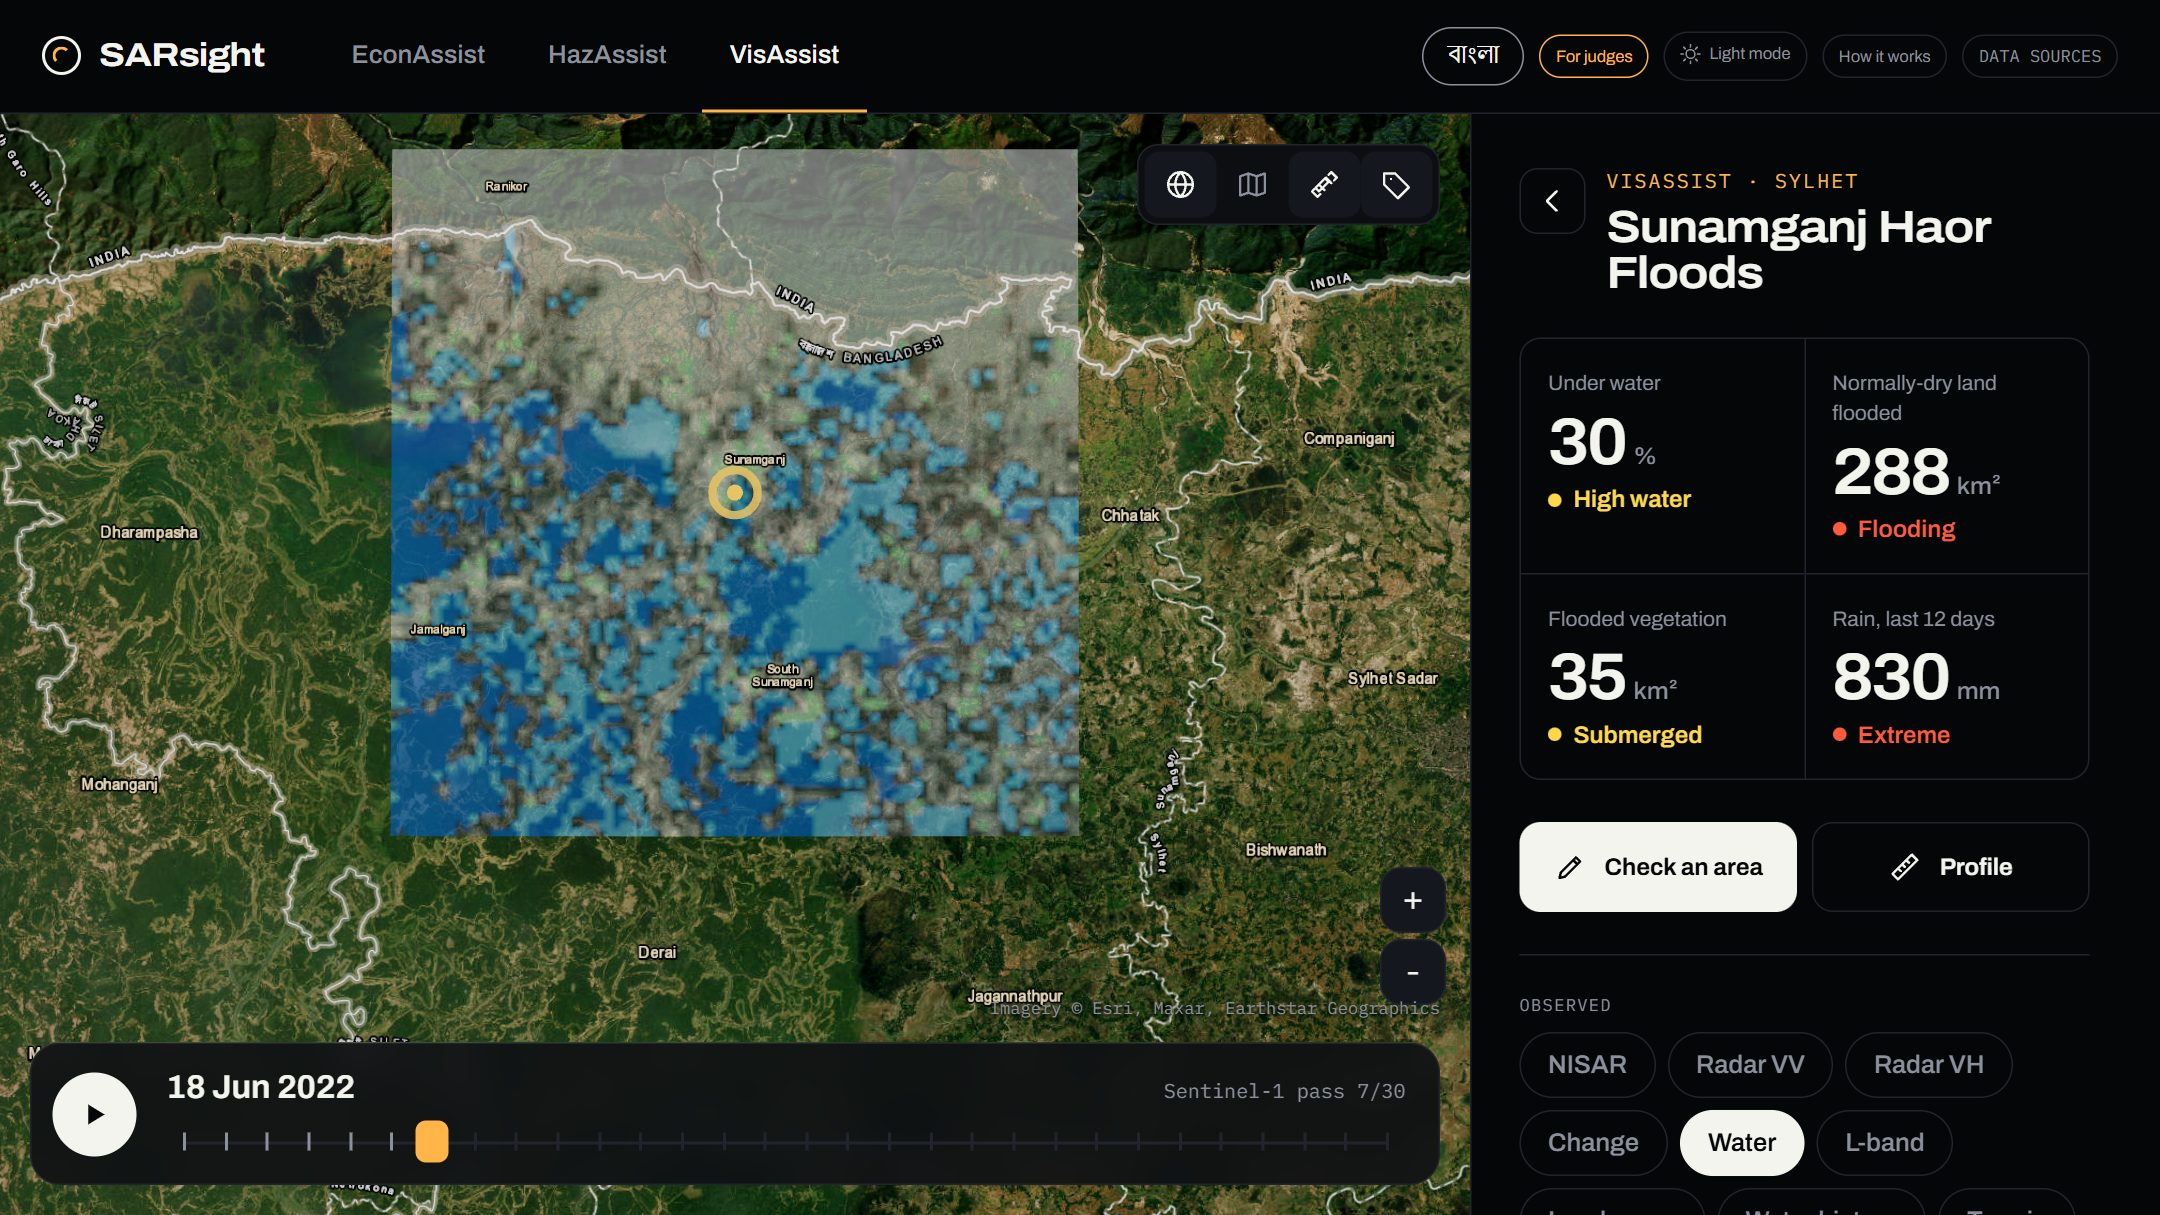
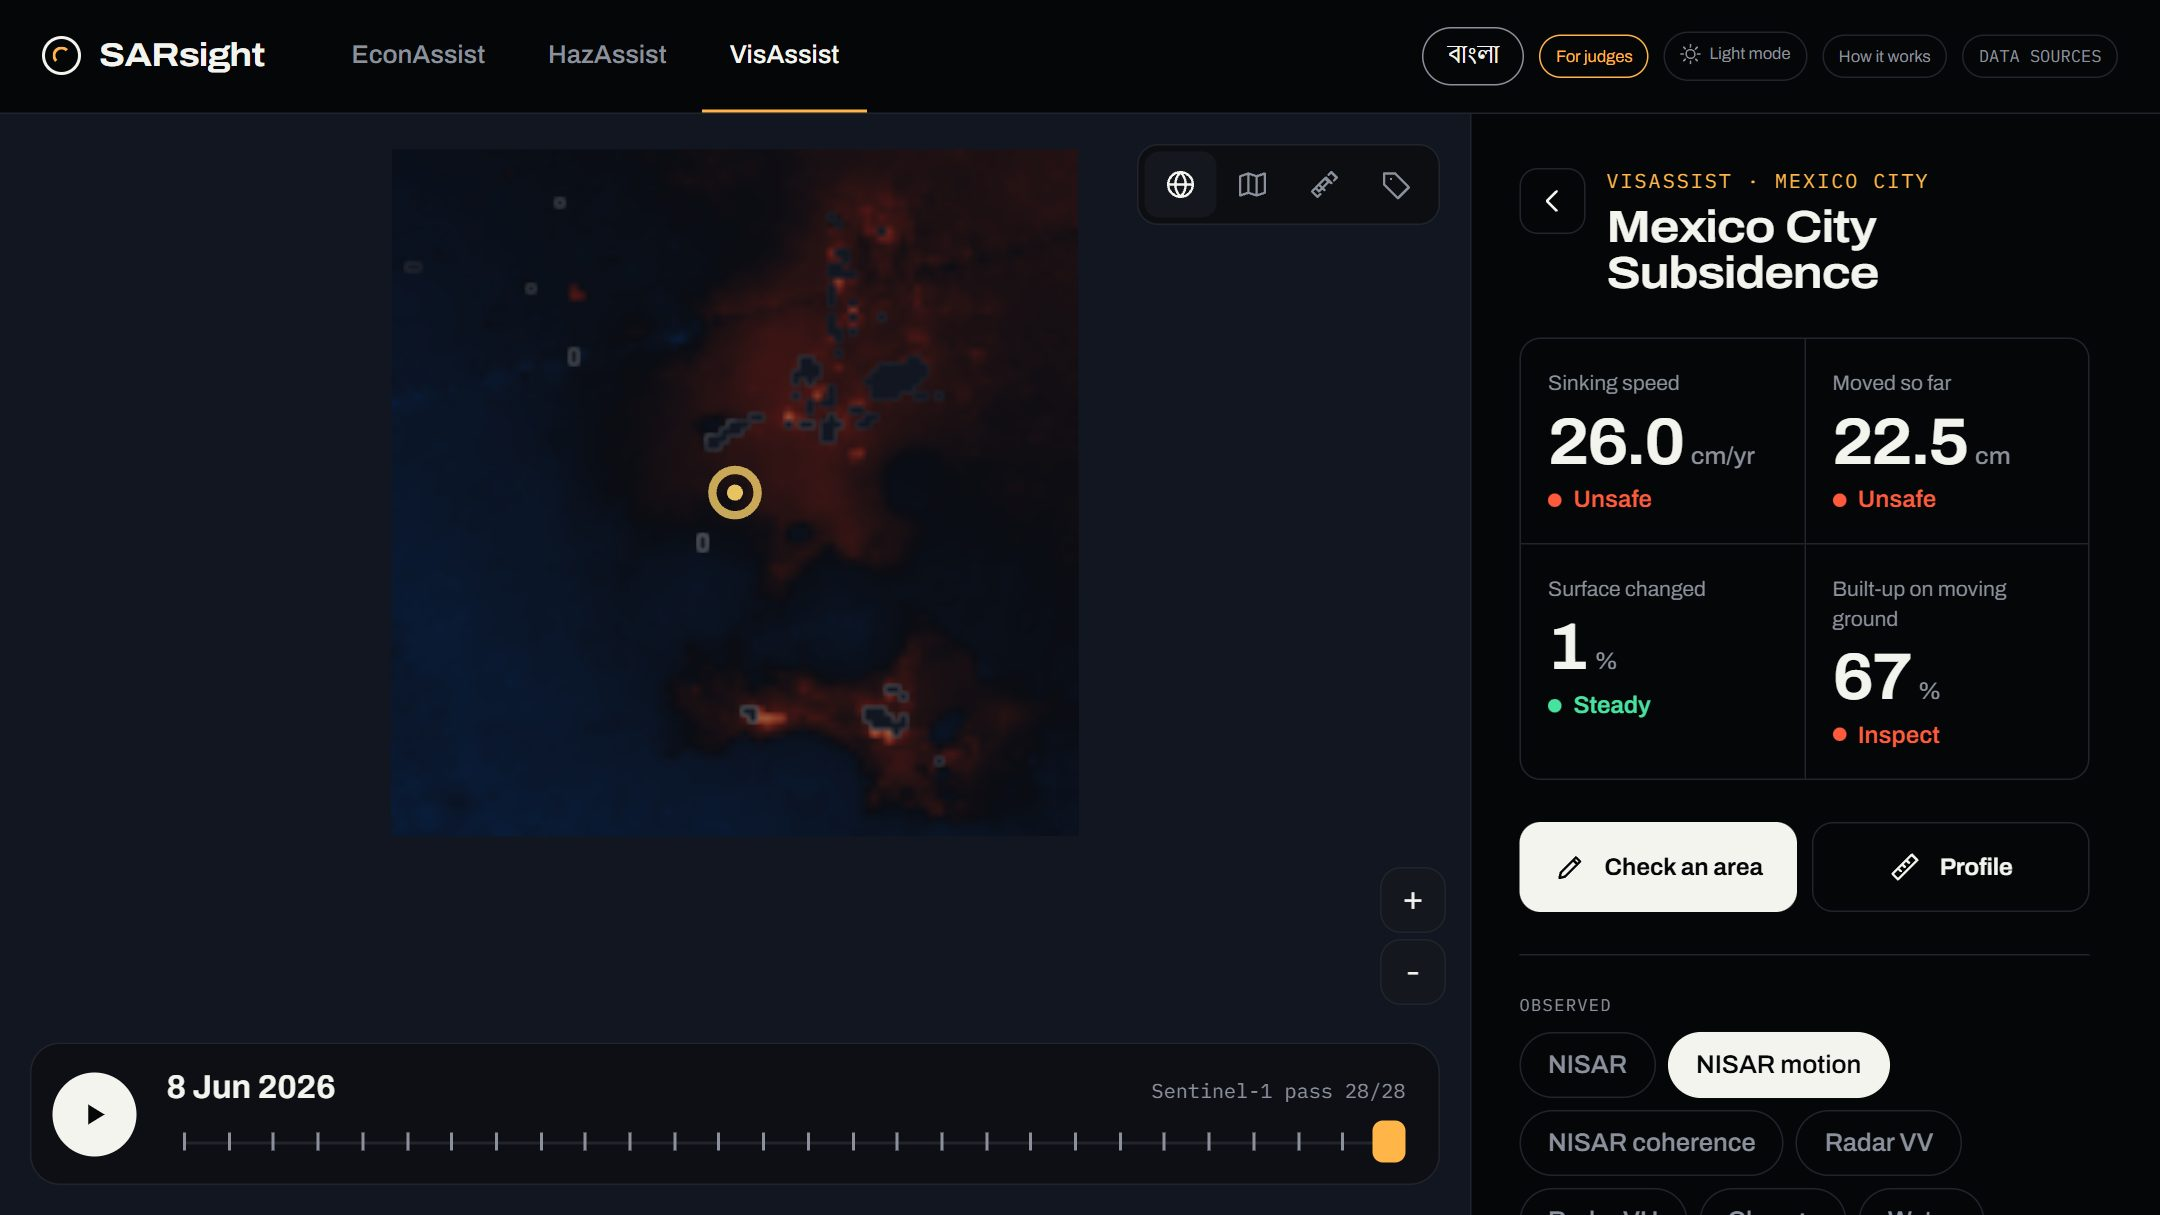
docs: README hero shows NISAR ground motion over Mexico City
NISAR is the project's focus, so the first image now shows NISAR's own
measurement instead of a Sentinel-1 flood map.

diff --git a/README.md b/README.md
@@ -2,15 +2,15 @@
 
 # SARsight
 
-**NASA's NISAR radar data, turned into plain answers for farmers, families and scientists.**
+**NASA's NISAR data, turned into plain answers for farmers, families and scientists.**
 
 <a href="https://sarsight.vercel.app"><img src="docs/open-app.svg" alt="Open the live app at sarsight.vercel.app" height="64"></a>
 
 [EconAssist](https://sarsight.vercel.app/#econ) · [HazAssist](https://sarsight.vercel.app/#haz) · [VisAssist](https://sarsight.vercel.app/#vis/sylhet-haor) · no sign-up, works on any phone
 
-<a href="https://sarsight.vercel.app/#vis/sylhet-haor"><img src="docs/sarsight-hero.jpg" alt="SARsight VisAssist showing the June 2022 Sylhet flood: 30% of the area under water, 288 km² of normally-dry land flooded, from Sentinel-1 radar" width="100%"></a>
+<a href="https://sarsight.vercel.app/#vis/mexico-city"><img src="docs/sarsight-hero.jpg" alt="SARsight VisAssist over Mexico City with the NISAR ground-motion layer: the red zone is sinking ground, and the panel reads sinking speed 26 cm per year, unsafe" width="100%"></a>
 
-<sub>The June 2022 Sylhet flood, seen through cloud by Sentinel-1 radar. Click the image to open it live.</sub>
+<sub>Mexico City, one of the fastest-sinking cities on Earth. The red zone is ground sinking, measured by NISAR's L-band radar. Click the image to open it live.</sub>
 
 </div>
 
